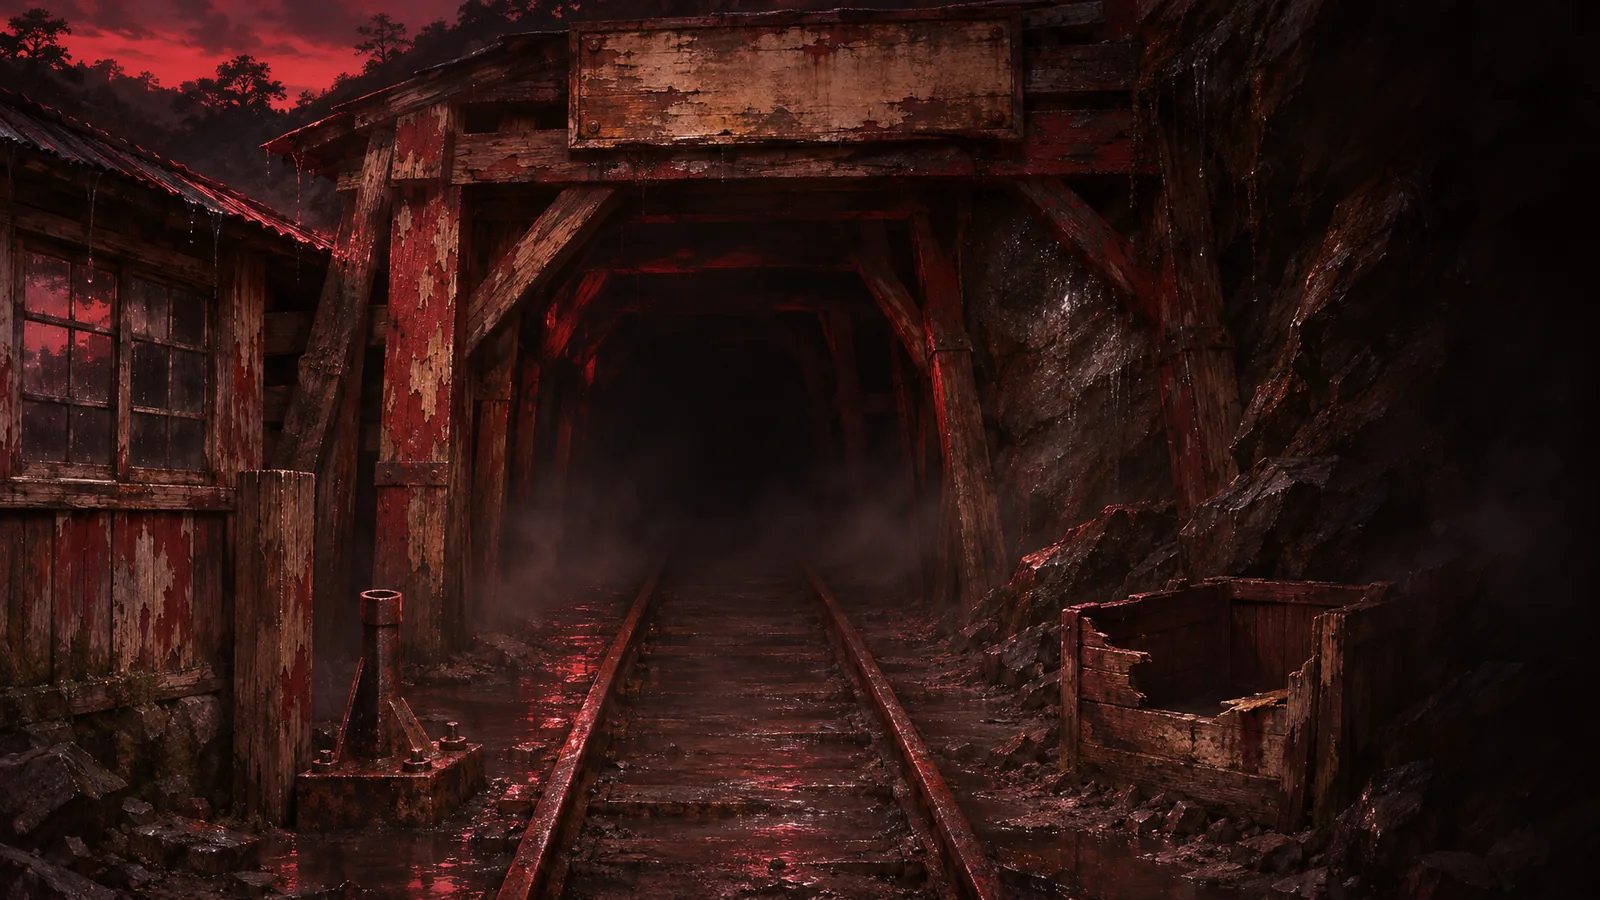
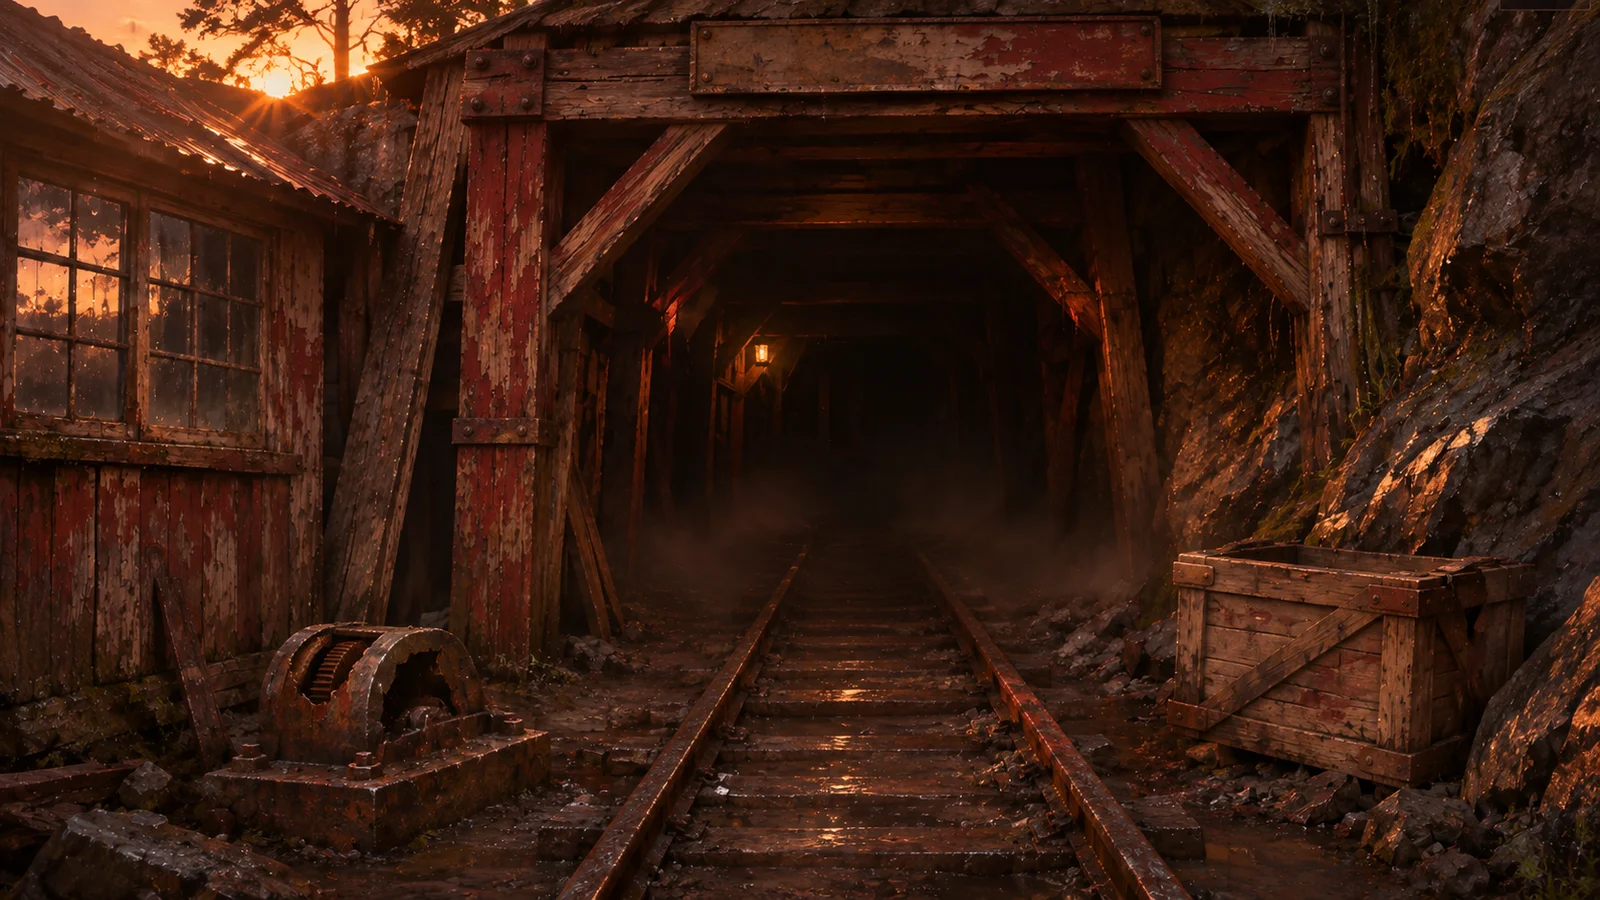
G01：S03 新場景與礦車扳桿、S04 透視修正、S05 新場景與黑板特寫
- S03 換成新背景；礦車正面圖放在軌道上，溜下去時沿軌道中線縮進坑道
- 扳桿先斜插在右邊木箱，插到左下控制機後直立，扳下就放開礦車
- 岩壁上的 A.W. 刻痕可點擊放大
- S04 改用背景本身的三座鐵櫃（03 號補上關著的門），照片縮小釘在黑板角落，編號刻在銅牌上
- S05 換成新背景；點右邊桌上的帳簿看離站與到站紀錄，點黑板開黑板特寫擦粉筆灰
- 書本移除翻頁字樣，點書的左右兩側翻頁

Claude-Session: https://claude.ai/code/session_01Pn1c6PoAAEP2SpZCvMg1En

diff --git a/css/style.css b/css/style.css
@@ -587,8 +587,6 @@ select.field { height: 48px; width: 240px; font-size: 16px; }
 .g1-book .pg .d { font-size: 17px; letter-spacing: 0.06em; opacity: 0.85; }
 .g1-book .pg h4 { margin: 4px 0 14px; font-size: 24px; font-weight: 400; border-bottom: 1px solid rgba(60, 35, 20, 0.35); padding-bottom: 8px; }
 .g1-book .pg p { margin: 0; font-size: 19px; line-height: 34px; text-indent: 2em; }
-.g1-book .turn { position: absolute; bottom: 30px; height: 48px; padding: 0 12px; background: none; border: none; font-family: 'G01Hand', var(--serif); font-size: 18px; color: rgba(38, 22, 12, 0.8); cursor: pointer; }
-.g1-book .turn.prev { left: 84px; } .g1-book .turn.next { right: 84px; }
 .g1-plate { position: absolute; left: 290px; top: 120px; width: 600px; padding: 36px 44px; transform: rotate(-1deg); background: linear-gradient(160deg, #5a4a40, #2e2520); border: 6px solid #241c17; box-shadow: inset 0 0 40px rgba(0, 0, 0, 0.6), 0 24px 48px rgba(0, 0, 0, 0.7); color: rgba(230, 214, 196, 0.85); font-family: var(--serif); text-shadow: 0 -1px 0 rgba(0, 0, 0, 0.8); }
 .g1-plate h4 { margin: 0 0 16px; font-size: 26px; letter-spacing: 0.12em; }
 .g1-plate p { margin: 0 0 8px; font-size: 20px; line-height: 32px; }
@@ -610,7 +608,14 @@ select.field { height: 48px; width: 240px; font-size: 16px; }
 .g1-book tr.g1pick:hover td { background: rgba(120, 70, 30, 0.08); }
 .g1-book tr.circled td:first-child::after { content: ''; position: absolute; left: -6px; top: 4px; width: 300px; height: 38px; border: 2.5px solid rgba(170, 22, 26, 0.85); border-radius: 50%; transform: rotate(-2deg); mix-blend-mode: multiply; pointer-events: none; }
 .g1-chalkmsg2 { position: absolute; z-index: 3; display: flex; flex-direction: column; align-items: center; justify-content: center; gap: 4px; font-family: 'G01Hand', var(--serif); color: rgba(236, 232, 220, 0.8); text-shadow: 0 0 2px rgba(255, 255, 255, 0.25); pointer-events: none; }
-.g1-chalkmsg2 p { margin: 0; font-size: 34px; line-height: 48px; letter-spacing: 0.08em; }
-.g1-chalkmsg2 p.big { font-size: 44px; line-height: 60px; }
-.g1-chalkmsg2 .arrow { width: 64px; height: 64px; }
+.g1-chalkmsg2 p { margin: 0; font-size: 48px; line-height: 72px; letter-spacing: 0.08em; }
+.g1-chalkmsg2 p.big { font-size: 64px; line-height: 88px; }
+.g1-chalkmsg2 .arrow { width: 96px; height: 96px; }
 .g1-dust { position: absolute; z-index: 4; touch-action: none; cursor: grab; }
+
+.g1-book { cursor: pointer; }
+.g1-book .curl { position: absolute; bottom: 22px; width: 56px; height: 56px; pointer-events: none; }
+.g1-book .curl.r { right: 30px; background: linear-gradient(315deg, rgba(60, 35, 15, 0.35) 0%, rgba(60, 35, 15, 0.12) 30%, transparent 52%); }
+.g1-book .curl.l { left: 30px; background: linear-gradient(45deg, rgba(60, 35, 15, 0.35) 0%, rgba(60, 35, 15, 0.12) 30%, transparent 52%); }
+.g1-clip { position: absolute; overflow: hidden; pointer-events: none; z-index: 2; }
+.g1-scratch.aw3 { font-size: 28px; color: rgba(236, 206, 168, 0.62); transform: rotate(-9deg) skewX(-8deg); }
